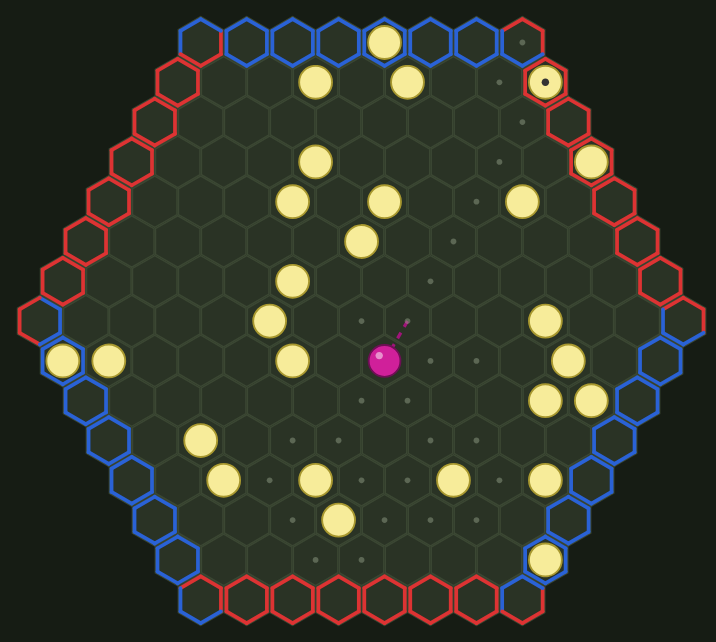
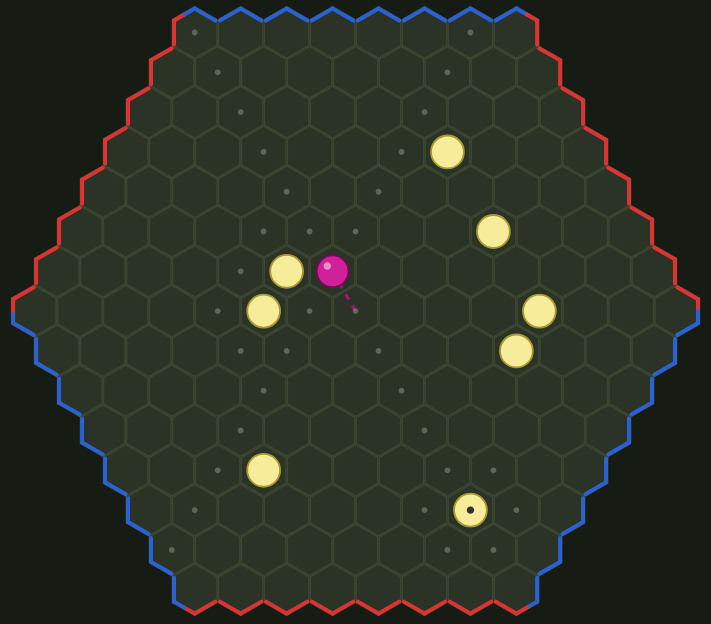
update Iqishiqi looks

diff --git a/play/iqishiqi.html b/play/iqishiqi.html
@@ -211,12 +211,17 @@ function X(i){return SQ*(Q[i]+RR[i]/2)}
 function Y(i){return 1.5*RR[i]}
 function pt(i,a,sz){var t=a*Math.PI/180;return(X(i)+sz*Math.cos(t)).toFixed(3)+","+(Y(i)+sz*Math.sin(t)).toFixed(3)}
 function hexPts(i,sz){var p=[];for(var k=0;k<6;k++)p.push(pt(i,30+60*k,sz));return p.join(" ")}
-function sideLine(i,j,col){return'<path d="M'+pt(i,-60*j-30,.88)+'L'+pt(i,-60*j+30,.88)+'" stroke="'+col+'" stroke-width=".14" stroke-linecap="round" fill="none"/>'}
+function sideLine(i,j,col,half){
+  var a1=(-60*j-30)*Math.PI/180,a2=(-60*j+30)*Math.PI/180,sz=.9,x1=X(i)+sz*Math.cos(a1),y1=Y(i)+sz*Math.sin(a1),x2=X(i)+sz*Math.cos(a2),y2=Y(i)+sz*Math.sin(a2);
+  if(half===1){x2=(x1+x2)/2;y2=(y1+y2)/2}else if(half===2){x1=(x1+x2)/2;y1=(y1+y2)/2}
+  return'<path d="M'+x1.toFixed(3)+','+y1.toFixed(3)+'L'+x2.toFixed(3)+','+y2.toFixed(3)+'" stroke="'+col+'" stroke-width=".15" stroke-linecap="round" fill="none" pointer-events="none"/>'}
+// only the outer sides (facing off the board) are painted; a corner is half red and half blue
 function edgeOutline(i){
-  var e=EDG[i],o=[],j,k;if(!e.length)return"";
-  if(e.length===1){for(j=0;j<6;j++)o.push(sideLine(i,j,GAME.sides[e[0]%2].color));return o.join("")}
-  k=(e[0]===0&&e[1]===5)?0:e[0];   // corner at direction k joins sides k-1 and k
-  for(j=0;j<6;j++)o.push(sideLine(i,j,GAME.sides[((j-k+6)%6<3?k:(k+5)%6)%2].color));
+  var e=EDG[i],o=[],j,k,C=function(n){return GAME.sides[((n%6)+6)%6%2].color};
+  if(!e.length)return"";
+  if(e.length===1){for(j=0;j<6;j++)if(NB[i][j]<0)o.push(sideLine(i,j,C(e[0])));return o.join("")}
+  k=(e[0]===0&&e[1]===5)?0:e[1];   // corner at direction k joins sides k-1 and k
+  o.push(sideLine(i,(k+1)%6,C(k)));o.push(sideLine(i,k,C(k),1));o.push(sideLine(i,k,C(k-1),2));o.push(sideLine(i,(k+5)%6,C(k-1)));
   return o.join("")}
 function render(){
   var s=cur(),i,g=['<svg viewBox="-13.4 -11.8 26.8 23.6" role="img" aria-label="Iqishiqi board">'];
